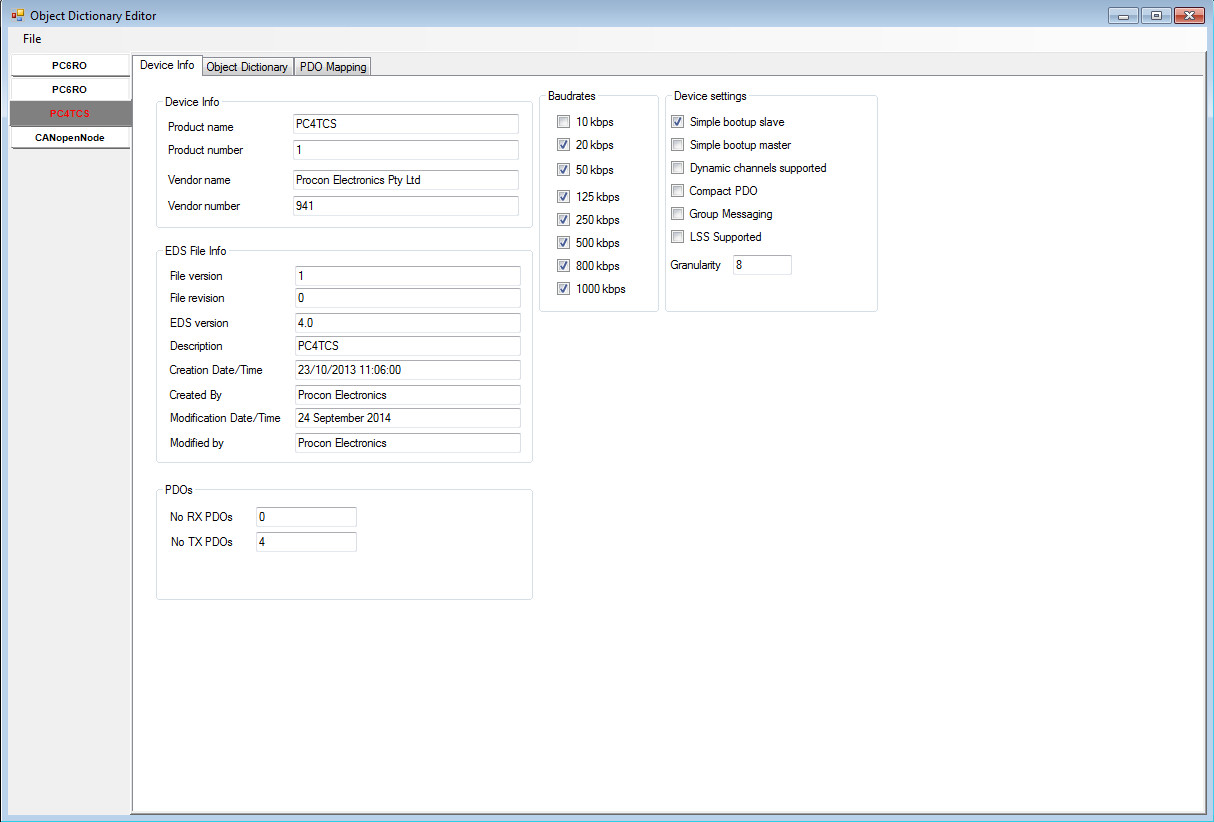
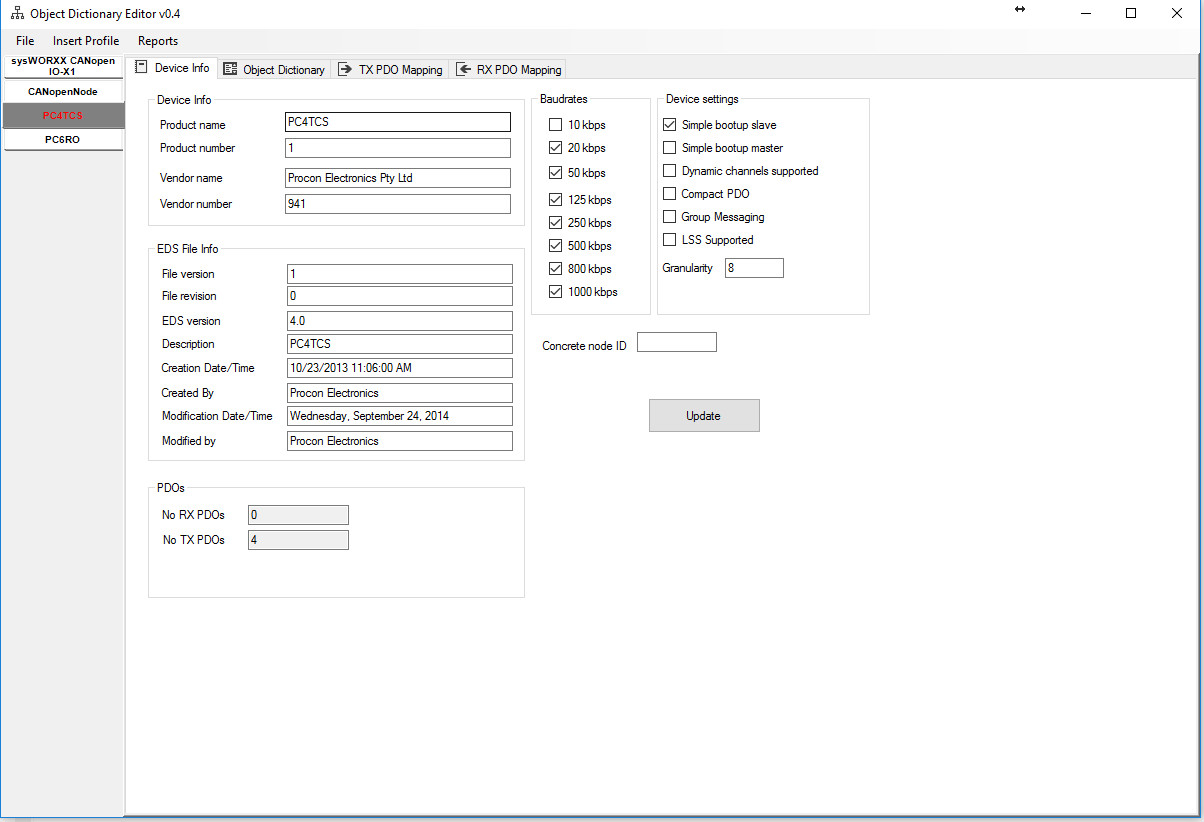
Update images and readme.md

diff --git a/README.md b/README.md
@@ -47,8 +47,11 @@ directory, only include the minimum number of objects that you want to auto inse
 * Edit Device and File Info sections
 * Set RX/TX PDO mappings easily from dropdown lists of avaiable objects
 * Add and remove new PDO entries (communication paramaters and mapping) in a single button push
+* Save groups of EDS/XML files as a network objects with abality to set concrete node IDs
+* View report of all configured PDO across the network
 
 
 ![alt tag](pic1.jpg)
 ![alt tag](pic2.jpg)
 ![alt tag](pic3.jpg)
+![alt tag](pic4.jpg)
